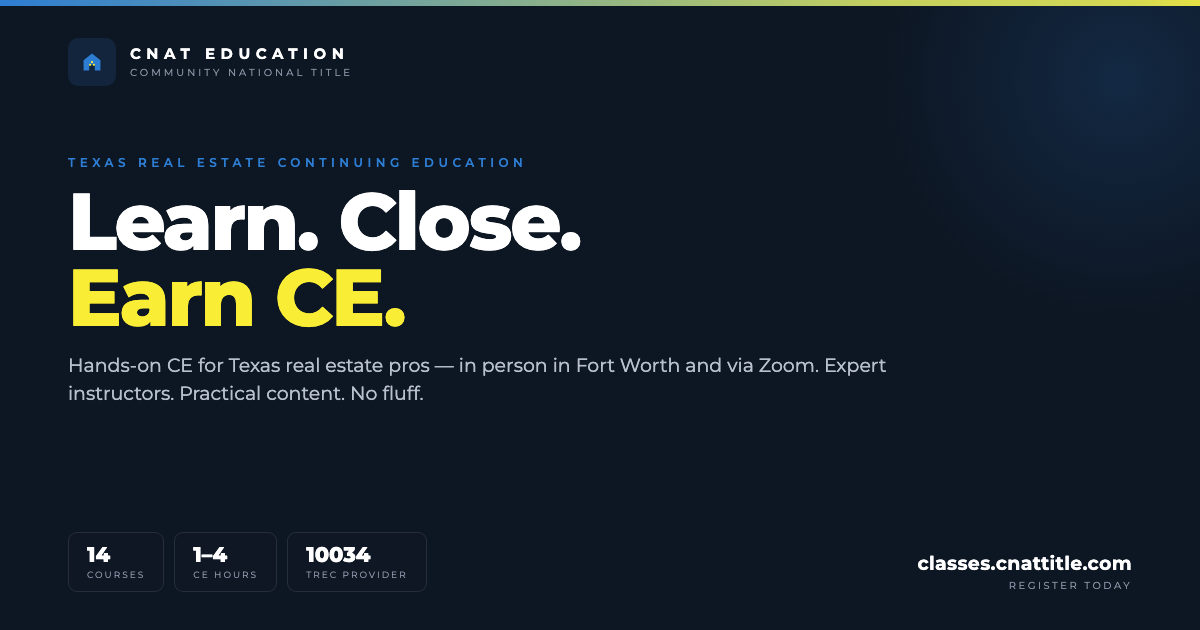
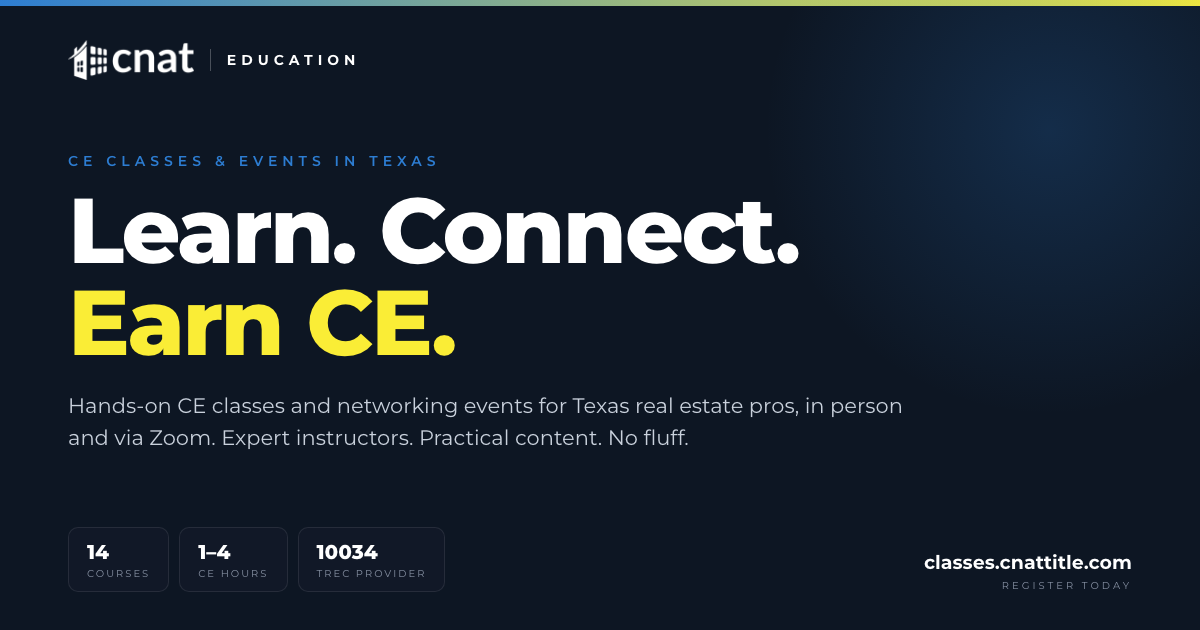
Share image matches the new homepage headline
og-home.png rebuilt as Learn. Connect. Earn CE. with the classes and
events copy (no em dash). Source HTML kept at og/og-home.source.html.
og:image and twitter:image carry ?v=20261029 so social caches refetch.

Claude-Session: https://claude.ai/code/session_018kbF4MzjpC6vJmWxTZzSD3

diff --git a/og/og-home.source.html b/og/og-home.source.html
@@ -1,0 +1,52 @@
+<!doctype html>
+<html lang="en">
+<head>
+<meta charset="utf-8">
+<meta name="robots" content="noindex">
+<title>og-home source</title>
+<!-- Source for og/og-home.png (1200x630). Render: headless Chrome, window 1200x630, screenshot. -->
+<link href="https://fonts.googleapis.com/css2?family=Montserrat:wght@400;500;600;700;800&display=swap" rel="stylesheet">
+<style>
+:root{--navy:#0d1623;--panel:#111827;--blue:#2d7dd2;--yellow:#faed36;--white:#fff;--grey:#8892a4;--body:#c9d1dc;--border:rgba(255,255,255,.09)}
+*{margin:0;padding:0;box-sizing:border-box}
+html,body{width:1200px;height:630px;overflow:hidden}
+body{font-family:'Montserrat',sans-serif;background:var(--navy);color:var(--white);-webkit-font-smoothing:antialiased;position:relative}
+.bar{position:absolute;top:0;left:0;right:0;height:6px;background:linear-gradient(90deg,var(--blue),var(--yellow))}
+.glow{position:absolute;top:-180px;right:-160px;width:620px;height:620px;border-radius:50%;background:radial-gradient(circle,rgba(45,125,210,.22),rgba(45,125,210,0) 65%)}
+.wrap{position:absolute;inset:0;padding:40px 68px 38px}
+.brand{display:flex;align-items:center;gap:16px}
+.brand img{height:40px;width:auto;display:block}
+.brand span{font-size:14px;font-weight:700;letter-spacing:5px;text-transform:uppercase;padding-left:16px;border-left:1px solid rgba(255,255,255,.25);line-height:22px}
+.eyebrow{margin-top:72px;font-size:14px;font-weight:600;letter-spacing:5px;text-transform:uppercase;color:var(--blue)}
+h1{margin-top:14px;font-size:92px;font-weight:800;line-height:1.0;letter-spacing:-2.5px}
+h1 span{color:var(--yellow)}
+.desc{margin-top:22px;max-width:860px;font-size:21px;line-height:1.5;color:var(--body);font-weight:400}
+.foot{position:absolute;left:68px;right:68px;bottom:38px;display:flex;align-items:flex-end;justify-content:space-between}
+.stats{display:flex;gap:10px}
+.stat{border:1px solid var(--border);background:var(--panel);border-radius:10px;padding:12px 18px 11px}
+.stat b{display:block;font-size:20px;font-weight:800}
+.stat i{display:block;font-style:normal;font-size:10px;letter-spacing:2px;text-transform:uppercase;color:var(--grey);margin-top:3px}
+.url{text-align:right}
+.url b{display:block;font-size:19px;font-weight:700}
+.url i{display:block;font-style:normal;font-size:10px;letter-spacing:3px;text-transform:uppercase;color:var(--grey);margin-top:5px}
+</style>
+</head>
+<body>
+<div class="bar"></div>
+<div class="glow"></div>
+<div class="wrap">
+  <div class="brand"><img src="https://classes.cnattitle.com/img/cnat-logo-white.png" alt="CNAT Title"><span>Education</span></div>
+  <p class="eyebrow">CE Classes &amp; Events in Texas</p>
+  <h1>Learn. Connect.<br><span>Earn CE.</span></h1>
+  <p class="desc">Hands-on CE classes and networking events for Texas real estate pros, in person and via Zoom. Expert instructors. Practical content. No fluff.</p>
+</div>
+<div class="foot">
+  <div class="stats">
+    <div class="stat"><b>14</b><i>Courses</i></div>
+    <div class="stat"><b>1&ndash;4</b><i>CE Hours</i></div>
+    <div class="stat"><b>10034</b><i>TREC Provider</i></div>
+  </div>
+  <div class="url"><b>classes.cnattitle.com</b><i>Register Today</i></div>
+</div>
+</body>
+</html>

diff --git a/index.html b/index.html
@@ -13,15 +13,15 @@
 <meta property="og:url" content="https://classes.cnattitle.com/">
 <meta property="og:title" content="CNAT Education | Texas Real Estate Continuing Education">
 <meta property="og:description" content="14 TREC-approved CE courses for Texas real estate pros. In person in Fort Worth and via Zoom. Register today.">
-<meta property="og:image" content="https://classes.cnattitle.com/og/og-home.png">
+<meta property="og:image" content="https://classes.cnattitle.com/og/og-home.png?v=20261029">
 <meta property="og:image:width" content="1200">
 <meta property="og:image:height" content="630">
-<meta property="og:image:alt" content="CNAT Education: Learn. Close. Earn CE.">
+<meta property="og:image:alt" content="CNAT Education: Learn. Connect. Earn CE.">
 <meta property="og:site_name" content="CNAT Education">
 <meta name="twitter:card" content="summary_large_image">
 <meta name="twitter:title" content="CNAT Education | Texas Real Estate Continuing Education">
 <meta name="twitter:description" content="14 TREC-approved CE courses. In person + Zoom. Register today.">
-<meta name="twitter:image" content="https://classes.cnattitle.com/og/og-home.png">
+<meta name="twitter:image" content="https://classes.cnattitle.com/og/og-home.png?v=20261029">
 <link href="https://fonts.googleapis.com/css2?family=Montserrat:wght@300;400;500;600;700;800&display=swap" rel="stylesheet">
 <style>
 :root{--navy:#0d1623;--dark:#080c14;--panel:#111827;--blue:#2d7dd2;--blue-light:#4a9ae8;--yellow:#faed36;--white:#fff;--grey:#8892a4;--border:rgba(255,255,255,.07);--success:#34d399}
